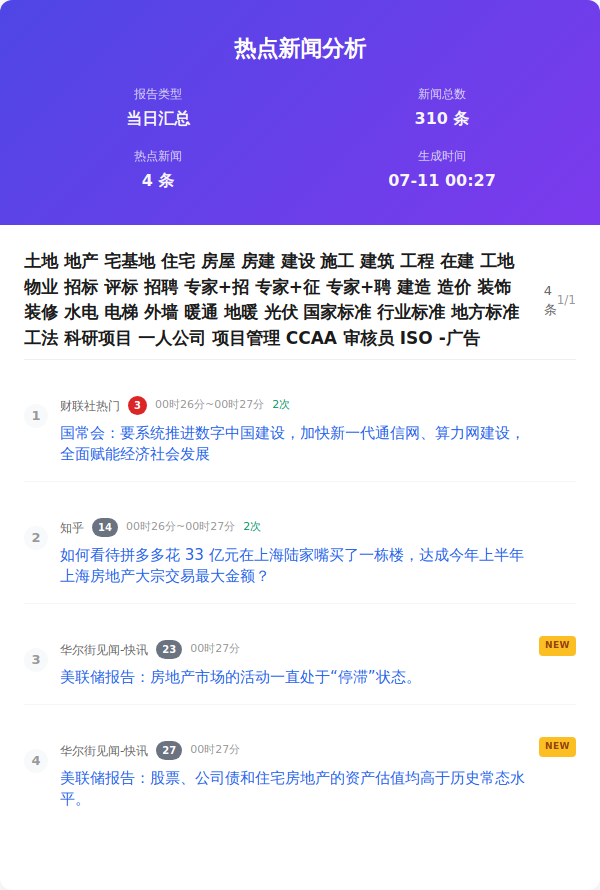
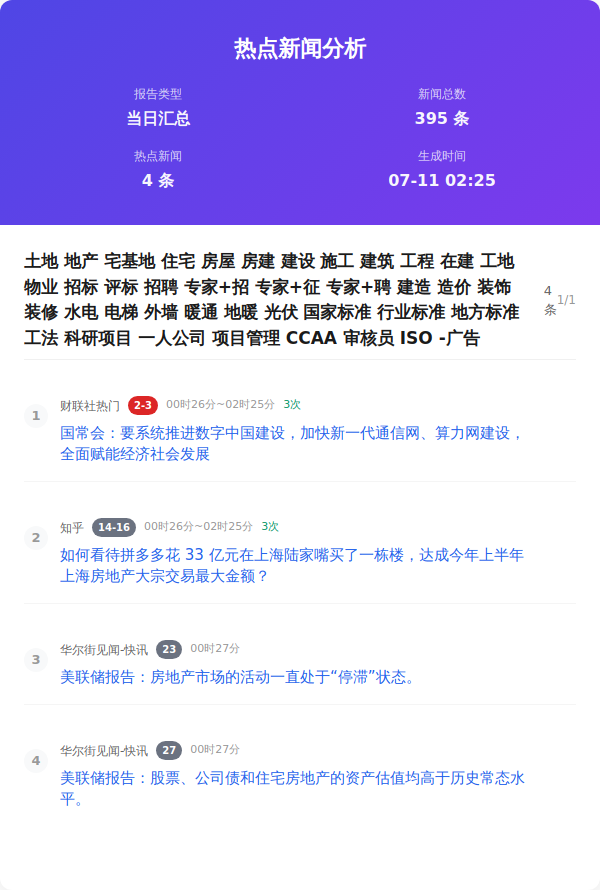
Auto update by GitHub Actions at Sat Jul 11 02:25:35 CST 2026

diff --git a/output/2026年07月11日/html/当日汇总.html b/output/2026年07月11日/html/当日汇总.html
@@ -357,7 +357,7 @@
                     </div>
                     <div class="info-item">
                         <span class="info-label">新闻总数</span>
-                        <span class="info-value">310 条</span>
+                        <span class="info-value">395 条</span>
                     </div>
                     <div class="info-item">
                         <span class="info-label">热点新闻</span>
@@ -365,7 +365,7 @@
                     </div>
                     <div class="info-item">
                         <span class="info-label">生成时间</span>
-                        <span class="info-value">07-11 00:27</span>
+                        <span class="info-value">07-11 02:25</span>
                     </div>
                 </div>
             </div>
@@ -383,7 +383,7 @@
                         <div class="news-number">1</div>
                         <div class="news-content">
                             <div class="news-header">
-                                <span class="source-name">财联社热门</span><span class="rank-num top">3</span><span class="time-info">00时26分~00时27分</span><span class="count-info">2次</span>
+                                <span class="source-name">财联社热门</span><span class="rank-num top">2-3</span><span class="time-info">00时26分~02时25分</span><span class="count-info">3次</span>
                             </div>
                             <div class="news-title"><a href="https://www.cls.cn/detail/2423220" target="_blank" class="news-link">国常会：要系统推进数字中国建设，加快新一代通信网、算力网建设，全面赋能经济社会发展</a>
                             </div>
@@ -393,13 +393,13 @@
                         <div class="news-number">2</div>
                         <div class="news-content">
                             <div class="news-header">
-                                <span class="source-name">知乎</span><span class="rank-num ">14</span><span class="time-info">00时26分~00时27分</span><span class="count-info">2次</span>
+                                <span class="source-name">知乎</span><span class="rank-num ">14-16</span><span class="time-info">00时26分~02时25分</span><span class="count-info">3次</span>
                             </div>
                             <div class="news-title"><a href="https://www.zhihu.com/question/2058676026578657793" target="_blank" class="news-link">如何看待拼多多花 33 亿元在上海陆家嘴买了一栋楼，达成今年上半年上海房地产大宗交易最大金额？</a>
                             </div>
                         </div>
                     </div>
-                    <div class="news-item new">
+                    <div class="news-item ">
                         <div class="news-number">3</div>
                         <div class="news-content">
                             <div class="news-header">
@@ -409,7 +409,7 @@
                             </div>
                         </div>
                     </div>
-                    <div class="news-item new">
+                    <div class="news-item ">
                         <div class="news-number">4</div>
                         <div class="news-content">
                             <div class="news-header">